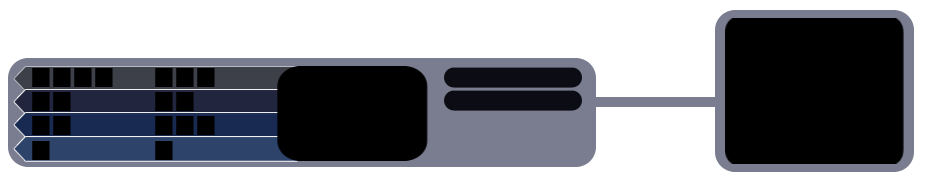
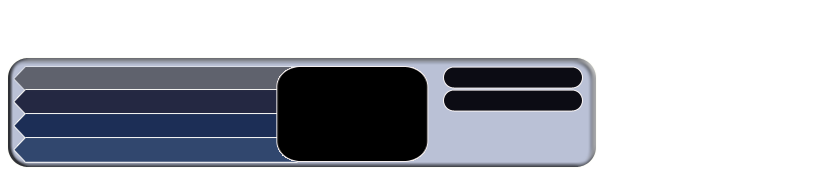
Basic minimap class added (not complete) and a slight change to the gui

diff --git a/gui/gamePanel.py b/gui/gamePanel.py
@@ -6,7 +6,8 @@ Created on Feb 21, 2012
 from direct.gui.DirectGui import *
 from pandac.PandaModules import *
 from researchTree import ResearchTree
-#from minimap import Minimap
+from minimap import Minimap
+from gameModel.solar import Planet
 
 class GamePanel(): 
     def __init__(self, player): 
@@ -15,7 +16,7 @@ class GamePanel():
             pos=(0, 0,-0.7),
             sortOrder=2,        
         )   
-        
+        self.planets = []
         self._loadSounds()
         self.player = player
         self.researchTree = ResearchTree()
@@ -23,7 +24,7 @@ class GamePanel():
         self.loadResources()
         self.loadMiniMap()
         self.loadResearchTree()
-        geom=OnscreenImage(parent=render2d, image="./models/gui/guiBarV2.png", scale = (1, 1, 0.3), pos = (0,0,-0.7))
+        geom=OnscreenImage(parent=render2d, image="./models/gui/guiBar.png", scale = (1, 1, 0.3), pos = (0,0,-0.7))
         geom.setTransparency(True)  
         
     def _loadSounds(self):
@@ -183,7 +184,7 @@ class GamePanel():
         bGravity.reparentTo(self.mainFrame)
       
     def loadResearchTree(self):
-        b1 = DirectButton(image = ("./models/gui/ResearchButton.png"), pos = (2.3, 0, -3),
+        b1 = DirectButton(image = ("./models/gui/ResearchButton.png"), pos = (7, 0, -3),
                           frameColor=(0, 0,0, 0),image_scale = (4, 1, 1.5), command = self.researchTree.loadTree)
         b1.stateNodePath[0].setTransparency(1)
         b1.stateNodePath[1].setTransparency(1)
@@ -192,9 +193,10 @@ class GamePanel():
             
     def loadMiniMap(self):
         #TODO: Finish Minimap
-      #  img = OnscreenImage(image="./models/gui/.png", scale = (1, 1, 0.3), pos = (0,0,-0.7))
- #       m = Minimap()
-        pass
+        self.targets = []
+ #       for planets in self.player.planets:
+ #           self.targets.append(self.planets.planet)
+        self.map = Minimap()
        
     ## CONSTRUCTION SELECTION
     def selectForge(self):

diff --git a/gui/guiUpdate.py b/gui/guiUpdate.py
@@ -12,10 +12,10 @@ class guiUpdate():
         self.value = value;
         self.screenText = OnscreenText(text='Time: ', pos=(0.8, 0.95), scale=0.05, fg=(1, 1, 1, 1))
         self.timeValue = OnscreenText(text='  ', pos=(1.0, 0.95), scale=0.05, fg=(1, 1, 1, 1))
-        self.resources = OnscreenText(text='Minerals: ', pos=(0.1, -0.67), scale=0.05, fg=(1, 1, 1, 1))
-        self.resourceValue = OnscreenText(text='  ', pos=(0.4, -0.67), scale=0.05, fg=(1, 1, 1, 1))
-        self.ge = OnscreenText(text='Gravity Engines: ', pos=(0.12, -0.75), scale=0.05, fg=(1, 1, 1, 1))
-        self.geAmount = OnscreenText(text=' ', pos=(0.4, -0.75), scale=0.05, fg=(1, 1, 1, 1))
+        self.resources = OnscreenText(text='Minerals: ', pos=(0.3, -0.67), scale=0.05, fg=(1, 1, 1, 1))
+        self.resourceValue = OnscreenText(text='  ', pos=(0.6, -0.67), scale=0.05, fg=(1, 1, 1, 1))
+        self.ge = OnscreenText(text='Gravity Engines: ', pos=(0.4, -0.75), scale=0.05, fg=(1, 1, 1, 1))
+        self.geAmount = OnscreenText(text=' ', pos=(0.6, -0.75), scale=0.05, fg=(1, 1, 1, 1))
         
     def update(self, event):
         if (event == "updateTime"):          
@@ -54,13 +54,13 @@ class guiUpdate():
         self.resourceValue.remove();  
         
     def printResources(self):      
-        self.resourceValue = OnscreenText(text=str(self.value), pos=(0.4, -0.67), scale=0.05, fg=(1, 1, 1, 1))
+        self.resourceValue = OnscreenText(text=str(self.value), pos=(0.6, -0.67), scale=0.05, fg=(1, 1, 1, 1))
         
     def refreshGE(self):
         self.geAmount.remove()
         
     def printGE(self):
-        self.geAmount = OnscreenText(text=str(self.value), pos=(0.4, -0.75), scale=0.05, fg=(1, 1, 1, 1))
+        self.geAmount = OnscreenText(text=str(self.value), pos=(0.6, -0.75), scale=0.05, fg=(1, 1, 1, 1))
         
     def refreshUnits(self):
         pass

diff --git a/gui/minimap.py b/gui/minimap.py
@@ -1,0 +1,50 @@
+'''
+Created on Mar 31, 2012
+
+@author: Bazibaz
+'''
+
+from direct.gui.OnscreenImage import OnscreenImage 
+from direct.gui.DirectGui import * 
+from direct.showbase.DirectObject import DirectObject 
+from pandac.PandaModules import *
+from pandac.PandaModules import PNMImage
+
+class Minimap():
+    image = None   
+    texture = None  
+    map = None     
+    onscreen = None
+    
+    def __init__(self):
+     #   taskMgr.add(self.step,"MinimapTask") 
+        pos = Vec3(1.3, 0, -0.55)
+        self.scale = (350)
+        cpos = Vec3(0,0,0)      #center
+        mapImage = "models/gui/minimap.png"
+        self.mapRadius = 64
+        self.spin = False
+        self.distanceScale = (18.75*self.mapRadius/self.scale)
+        
+        self.map = aspect2d.attachNewNode('Map')
+        
+        props = base.win.getProperties()
+        self.Height = float(props.getYSize())
+        self.Hscale = (1/self.Height)
+        
+        self.map.setScale(self.Hscale)  
+        self.map.setPos(pos)
+        self.pointer = render.attachNewNode('pointer')
+        self.pointer.setPos(cpos)
+        self.pivot = []
+        self.pivot.append([])
+        self.dots = []
+        self.dots.append([])
+        self.targets = []
+        self.targets.append([])
+        self.teamImage = []
+        #self.teamImage.append("models/gui/dot.png")
+        image = OnscreenImage(image = mapImage, scale = self.scale, parent = self.map)
+        image.setTransparency(True)
+        self.totaltargets = 0
+      

diff --git a/gui/researchTree.py b/gui/researchTree.py
@@ -45,7 +45,7 @@ class ResearchTree():
         myAspect2d.node().setMouseWatcher(mw.node()) 
         
         self.image = OnscreenImage(parent=myRender2d, image="./models/gui/research_tree.png", scale = (1, 1, 1), pos = (0,0,0))
-   
+        
         
         #Tier 1 abilities
         b1 = DirectButton(parent = myAspect2d, text = ("Capture", "click!", "roll"), pos = (-0.6, 0, 0.4),
